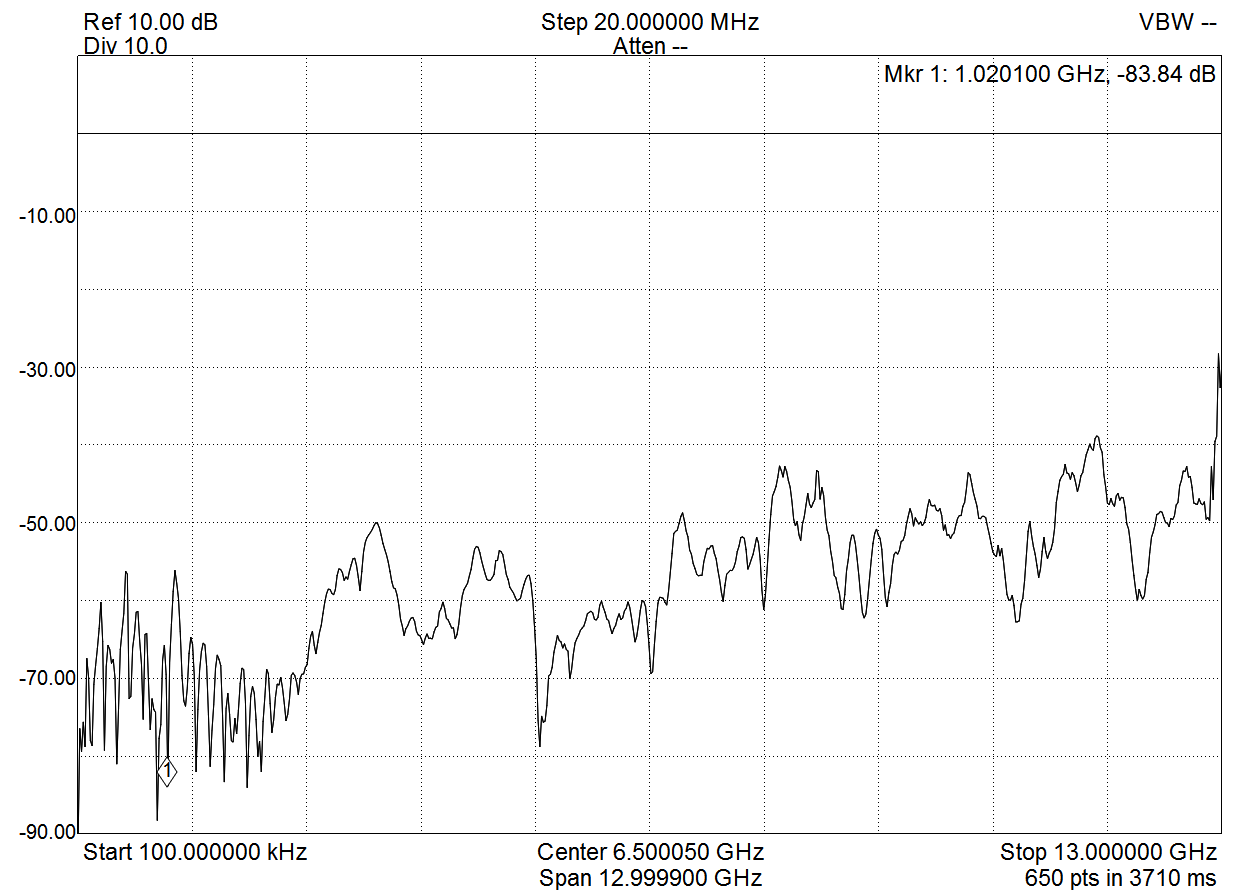
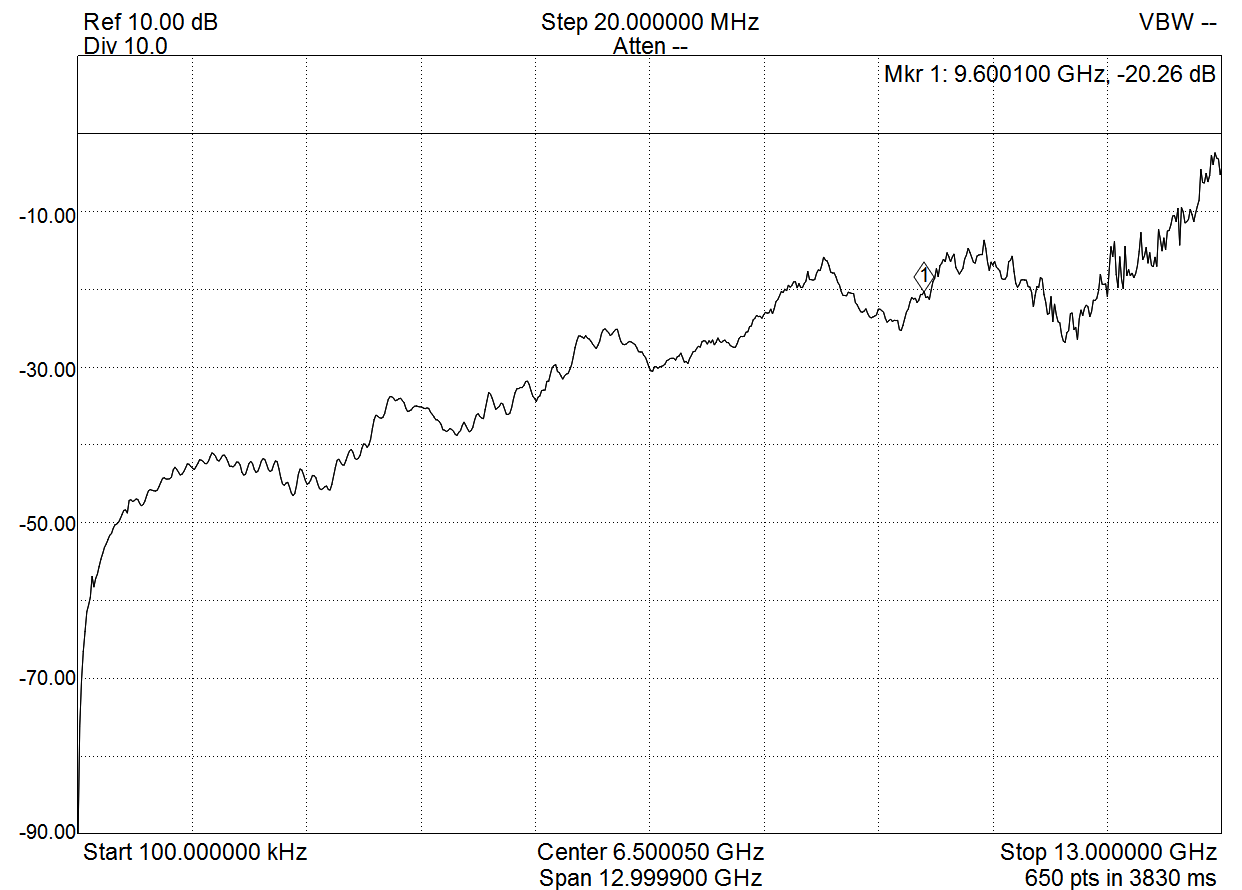
fixed e probe measurements, added README for doc folder

diff --git a/doc/README.md b/doc/README.md
@@ -1,0 +1,12 @@
+# e field probe, 1 mm above microstrip:
+![e-field probe](field_probe_1mm_above_microstrip.png)
+
+# h field probe, 1 mm above and perpendicular to microstrip:
+![h-field probe, perp](h_probe_1mm_above_perp_to_microstrip.png)
+
+
+# h field probe, 1 mm above and parallel to microstrip:
+![h-field probe, parallel](h_probe_1mm_parallel_to_microstrip.png)
+
+# stripline test board
+![stripline_test_through](stripline_test_through.png)
